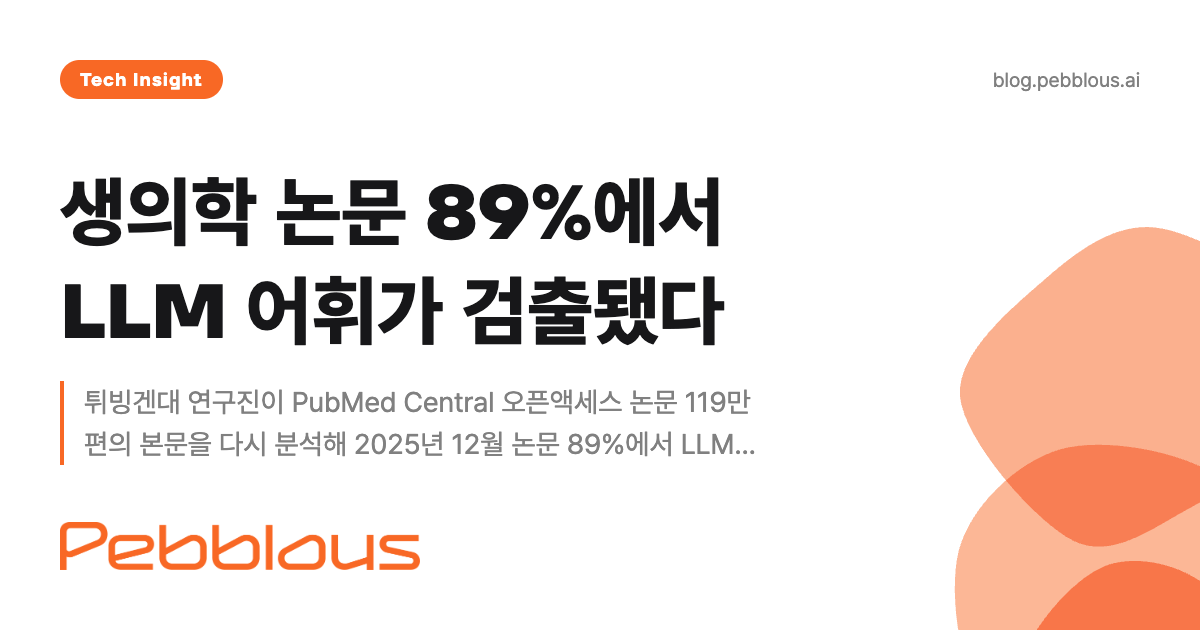
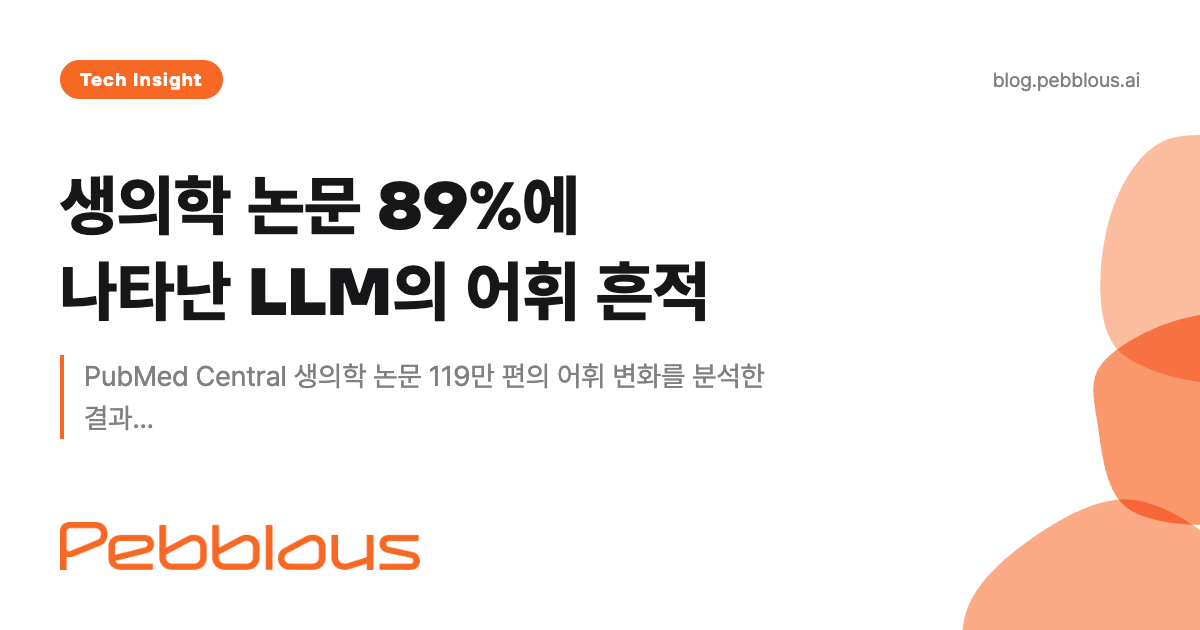
chore(titles): 제목·메타 일괄 교정 1건/5필드 (제목 검토 콘솔)\n\n- biomedical-papers-llm-vocabulary-ko:\n    제목: 생의학 논문 89%에서 LLM 어휘가 검출됐다 → 생의학 논문 89%에 등장하는 LLM 어휘의 흔적\n    부제목: 튀빙겐대 연구진이 PubMed 논문 119만 편을 다시 잰 값이고, 고찰 68%, 방법 32%로 갈렸다 → PubMed 논문 119만 편의 단어 빈도로 추정한 섹션별 AI 보조 작성 비율 — 고찰 68%, 방법 32%\n    SEO 제목: 생의학

Changed region(s): [[0.0308, 0.3921, 0.6475, 0.7238], [0.7708, 0.2111, 1.0, 1.0], [0.0308, 0.2714, 0.6167, 0.3921]]

diff --git a/blog/biomedical-papers-llm-vocabulary/ko/index.html b/blog/biomedical-papers-llm-vocabulary/ko/index.html
@@ -4,14 +4,15 @@
 <head>
     <meta charset="UTF-8">
     <meta name="viewport" content="width=device-width, initial-scale=1.0">
-    <title>생의학 논문 LLM 어휘 89% — PubMed 119만 편 섹션별 오염 지도 | 페블러스</title>
+    <title>생의학 논문 89%에 나타난 LLM 어휘 흔적 | 페블러스</title>
+    <meta name="og-image-title" content="생의학 논문 89%에 나타난 LLM의 어휘 흔적">
     <meta name="author" content="(주)페블러스 데이터 커뮤니케이션팀">
     <meta name="language" content="Korean">
     <meta http-equiv="content-language" content="ko">
     <meta name="copyright" content="© 2026 Pebblous. All rights reserved.">
     <meta name="robots" content="index, follow">
 
-    <meta name="description" content="튀빙겐대 연구진이 PubMed Central 오픈액세스 논문 119만 편의 본문을 다시 분석해 2025년 12월 논문 89%에서 LLM 연관 어휘의 초과 등장을 확인했습니다. 문단 단위로는 고찰 68%, 방법 32%로 갈려 오염이 균질하지 않았습니다.">
+    <meta name="description" content="PubMed Central 생의학 논문 119만 편의 어휘 변화를 분석한 결과, 2025년 12월 논문의 89%에서 LLM 보조 작성의 통계적 흔적이 나타났다. LLM 어휘를 측정하는 방법과 섹션별 차이를 살펴본다.">
     <meta name="keywords" content="생의학 논문 LLM 어휘, LLM 어휘 오염, 논문 AI 작성 탐지, PubMed 논문 AI 생성 비율, 초과 어휘 탐지, 논문 섹션별 AI 오염, 과학 문헌 데이터 품질, AI 학습 코퍼스, AI-Ready Data">
 
     <link rel="canonical" href="https://blog.pebblous.ai/blog/biomedical-papers-llm-vocabulary/ko/">
@@ -21,8 +22,8 @@
 
     <!-- Open Graph -->
     <meta property="og:type" content="article">
-    <meta property="og:title" content="생의학 논문 89%에서 LLM 어휘가 검출됐다">
-    <meta property="og:description" content="튀빙겐대 연구진이 PubMed Central 오픈액세스 논문 119만 편의 본문을 다시 분석해 2025년 12월 논문 89%에서 LLM 연관 어휘의 초과 등장을 확인했습니다. 문단 단위로는 고찰 68%, 방법 32%로 갈려 오염이 균질하지 않았습니다.">
+    <meta property="og:title" content="생의학 논문 89%에 등장하는 LLM 어휘의 흔적">
+    <meta property="og:description" content="PubMed Central 생의학 논문 119만 편의 어휘 변화를 분석한 결과, 2025년 12월 논문의 89%에서 LLM 보조 작성의 통계적 흔적이 나타났다. LLM 어휘를 측정하는 방법과 섹션별 차이를 살펴본다.">
     <meta property="og:url" content="https://blog.pebblous.ai/blog/biomedical-papers-llm-vocabulary/ko/">
     <meta property="og:image" content="https://blog.pebblous.ai/blog/biomedical-papers-llm-vocabulary/ko/image/index.png">
     <meta property="og:image:width" content="1200">
@@ -34,8 +35,8 @@
 
     <!-- Twitter Card -->
     <meta name="twitter:card" content="summary_large_image">
-    <meta name="twitter:title" content="생의학 논문 89%에서 LLM 어휘가 검출됐다">
-    <meta name="twitter:description" content="PubMed Central 오픈액세스 논문 119만 편을 다시 잰 결과입니다. 문단 단위로는 고찰 68%, 방법 32%로 갈려, 코퍼스를 쓰는 쪽의 판단 단위가 논문에서 섹션으로 내려갑니다.">
+    <meta name="twitter:title" content="생의학 논문 89%에 등장하는 LLM 어휘의 흔적">
+    <meta name="twitter:description" content="PubMed Central 생의학 논문 119만 편의 어휘 변화를 분석한 결과, 2025년 12월 논문의 89%에서 LLM 보조 작성의 통계적 흔적이 나타났다. LLM 어휘를 측정하는 방법과 섹션별 차이를 살펴본다.">
     <meta name="twitter:image" content="https://blog.pebblous.ai/blog/biomedical-papers-llm-vocabulary/ko/image/index.png">
     <meta name="twitter:image:alt" content="논문 섹션별 LLM 어휘 검출률을 나타낸 도식">
     <meta name="twitter:site" content="@pebblous_ai">
@@ -524,9 +525,9 @@
               },
               "recordedAt": "2026-08-13T19:21:13.155Z"
             },
-            mainTitle: "생의학 논문 89%에서 LLM 어휘가 검출됐다",
-            subtitle: "튀빙겐대 연구진이 PubMed 논문 119만 편을 다시 잰 값이고, 고찰 68%, 방법 32%로 갈렸다",
-            pageTitle: "생의학 논문 LLM 어휘 89% — PubMed 119만 편 섹션별 오염 지도 | 페블러스",
+            mainTitle: "생의학 논문 89%에 등장하는 LLM 어휘의 흔적",
+            subtitle: "PubMed 논문 119만 편의 단어 빈도로 추정한 섹션별 AI 보조 작성 비율 — 고찰 68%, 방법 32%",
+            pageTitle: "생의학 논문 89%에 나타난 LLM 어휘 흔적 | 페블러스",
             category: "tech",
             publishDate: "2026-08-14",
             publisher: "(주)페블러스 데이터 커뮤니케이션팀",
